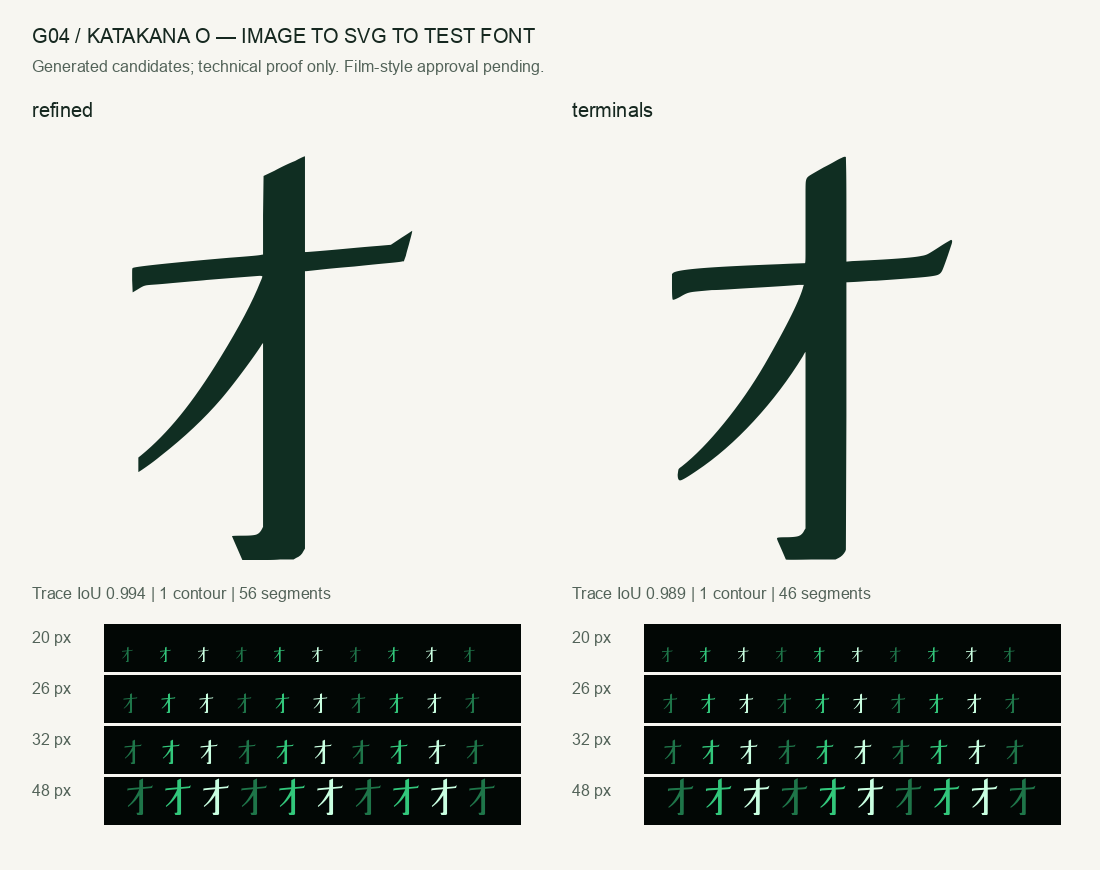
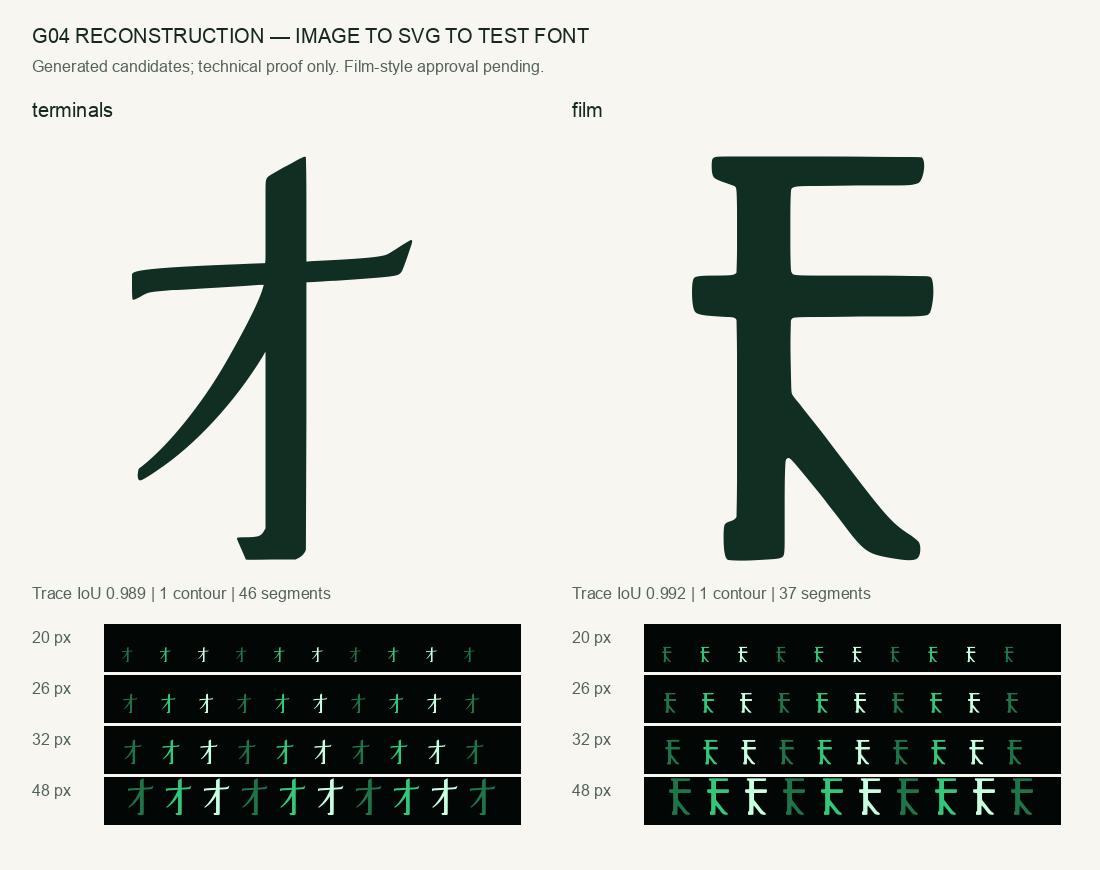
Preserve film glyph orientation and flag proportions for review

diff --git a/scripts/glyphs/image_pilot.py b/scripts/glyphs/image_pilot.py
@@ -24,6 +24,9 @@ ROOT = Path(__file__).resolve().parents[2]
 
 def prepare(experiment, candidate, retrace=False):
     config = json.loads((experiment / 'manifest.json').read_text())
+    variant = next((v for v in config.get('variants', []) if v['image'] == candidate), {})
+    # Film orientation can remain a PUA study while textbook kana uses Unicode.
+    config['codepoint'] = variant.get('codepoint', config['codepoint'])
     image_path = experiment / candidate
     gray = raster.load_gray(image_path)
     mask = gray < config['trace']['threshold']
@@ -87,7 +90,8 @@ def prepare(experiment, candidate, retrace=False):
     if abs(ratio - proportions['target_ink_width_over_height']) > proportions['tolerance']:
         warnings.append(f'Generated aspect ratio {ratio:.4f} needs review')
     report = {
-        'candidate': candidate, 'sha256': hashlib.sha256(image_path.read_bytes()).hexdigest(),
+        'candidate': candidate, 'codepoint': config['codepoint'],
+        'sha256': hashlib.sha256(image_path.read_bytes()).hexdigest(),
         'svg_sha256': hashlib.sha256(svg_path.read_bytes()).hexdigest(),
         'ink_box': box, 'aspect_ratio': round((x1 - x0) / (y1 - y0), 4),
         'topology': topology, 'trace_iou': round(iou, 5),
@@ -107,13 +111,13 @@ def make_proof(config, fonts, out):
     draw = ImageDraw.Draw(image)
     label = ImageFont.truetype(proof.LABEL_FONT, 20)
     small = ImageFont.truetype(proof.LABEL_FONT, 16)
-    draw.text((32, 24), 'G04 / KATAKANA O — IMAGE TO SVG TO TEST FONT', font=label, fill='#162820')
+    draw.text((32, 24), 'G04 RECONSTRUCTION — IMAGE TO SVG TO TEST FONT', font=label, fill='#162820')
     draw.text((32, 57), 'Generated candidates; technical proof only. Film-style approval pending.', font=small, fill='#536359')
     for i, (name, font_path, report) in enumerate(fonts):
         x = 32 + i * 540
         draw.text((x, 98), name, font=label, fill='#162820')
         glyph_font = ImageFont.truetype(str(font_path), 530)
-        draw.text((x + 240, 560), chr(config['codepoint']), font=glyph_font, anchor='ms', fill='#102e22')
+        draw.text((x + 240, 560), chr(report['codepoint']), font=glyph_font, anchor='ms', fill='#102e22')
         draw.text((x, 584), f'Trace IoU {report["trace_iou"]:.3f} | {report["contours"]} contour | {report["segments"]} segments', font=small, fill='#536359')
         for row, size in enumerate((20, 26, 32, 48)):
             y = 628 + row * 51
@@ -121,7 +125,7 @@ def make_proof(config, fonts, out):
             draw.rectangle((x + 72, y - 4, x + 488, y + 43), fill='#020705')
             f = ImageFont.truetype(str(font_path), size)
             for j in range(10):
-                draw.text((x + 86 + j * 38, y + 34), chr(config['codepoint']), font=f,
+                draw.text((x + 86 + j * 38, y + 34), chr(report['codepoint']), font=f,
                           anchor='ls', fill=('#1e7549', '#32c77b', '#c9ffe1')[j % 3])
     image.save(out)
 

diff --git a/research/glyphs/experiments/g04-image-v1/README.md b/research/glyphs/experiments/g04-image-v1/README.md
@@ -48,7 +48,7 @@ From the repository root, using the project's Python environment:
 ```sh
 .venv/bin/python scripts/glyphs/image_pilot.py \
   research/glyphs/experiments/g04-image-v1 \
-  --candidates refined.png terminals.png
+  --candidates terminals.png film.png
 ```
 
 The first build creates `<candidate>.svg` next to the raster. Further builds use
@@ -65,8 +65,17 @@ Saved [comparison proof](proof.png) and `verification.json` describe this run.
 The `terminals` candidate has ink ratio 0.6949, 46 outline segments, one connected
 contour and no holes. Its source-to-TTF IoU is 0.98939; topology survives all four
 tested sizes. The earlier `refined` candidate has a detached pixel at 20 px and
-keeps that warning. All three test fonts rebuilt byte-identically in two runs.
-These results select `terminals` for further review, not automatic promotion.
+keeps that warning. All four test fonts rebuilt byte-identically in two runs.
+
+The latest movie close-up exposed a construction/orientation mismatch: the upper
+film glyph has its diagonal descending right, unlike conventional オ used in the
+first three candidates. `film.png` / `film.svg` follows that photographed layout
+and is mapped **only to PUA U+E004** in its test font. No Unicode identification
+or production catalog assignment was changed. The new candidate has 37 segments,
+IoU 0.99235 and correct topology at all four sizes, but ratio 0.5978 is outside
+the target range and produces an explicit warning. Its terminals are also too
+rounded/heavy. Use it for manual refinement against the film, not automatic
+promotion. The clean normal オ variants remain construction studies.
 
 ## Continue the alphabet
 

diff --git a/research/glyphs/katakana/README.md b/research/glyphs/katakana/README.md
@@ -267,6 +267,6 @@ Node-проверка управления анимацией с ручным в
 начала/конца и отражение, затем перенести одобренные контуры в шрифт.
 
 Первый [image-assisted пилот G04](../experiments/g04-image-v1/README.md)
-сохраняет три генерации, промпты, редактируемые SVG и сравнение из тестовых TTF.
+сохраняет четыре генерации, промпты, редактируемые SVG и сравнение из тестовых TTF.
 Это отдельный эксперимент с вытянутыми пропорциями и окончаниями пера;
 его контуры ещё не одобрены для рабочего шрифта.
